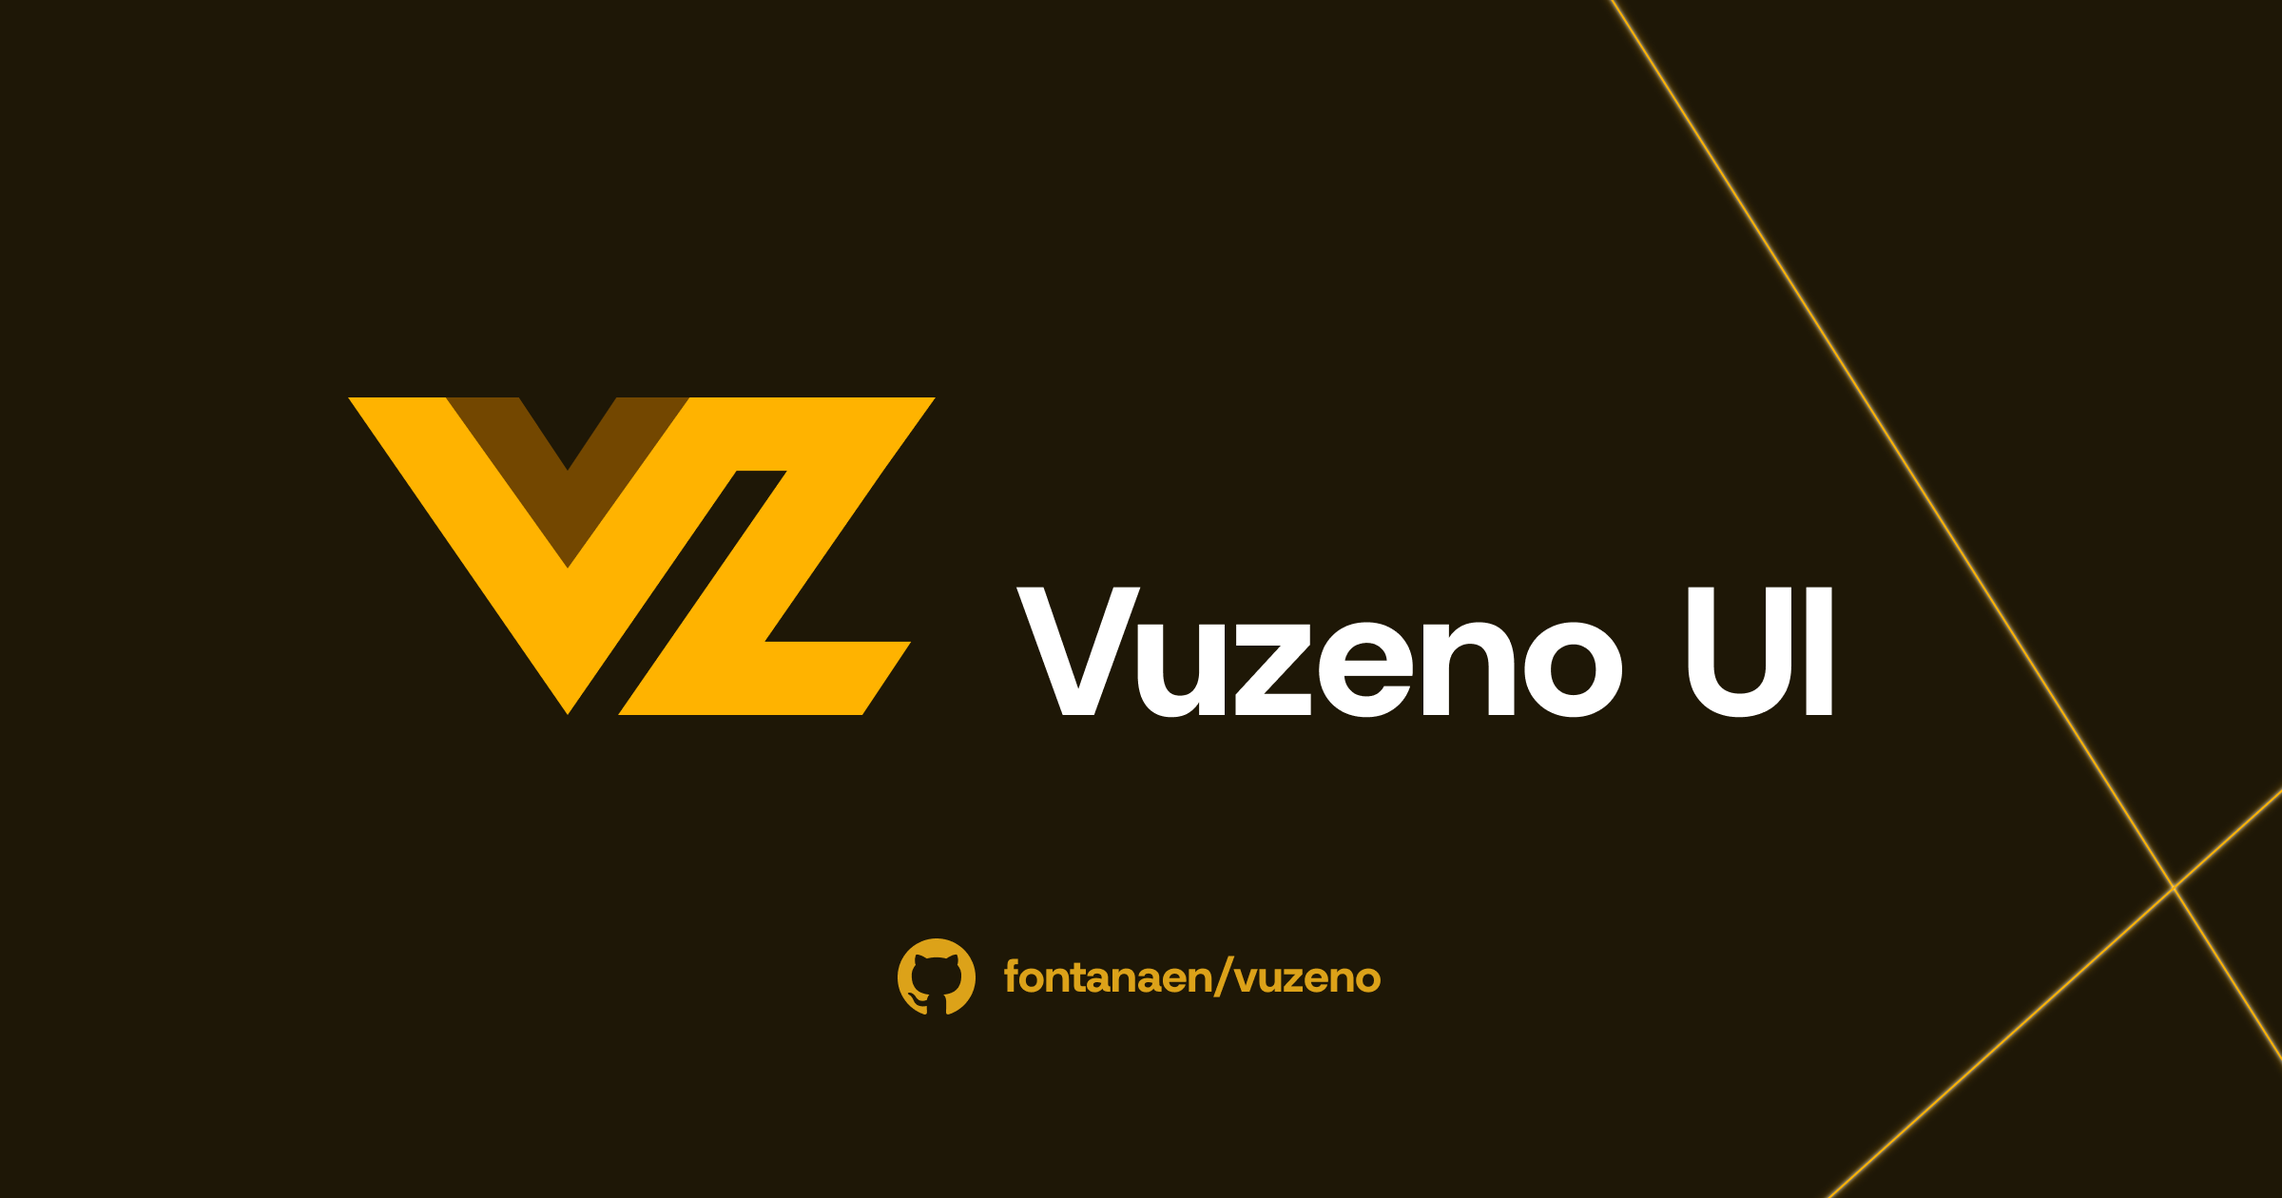
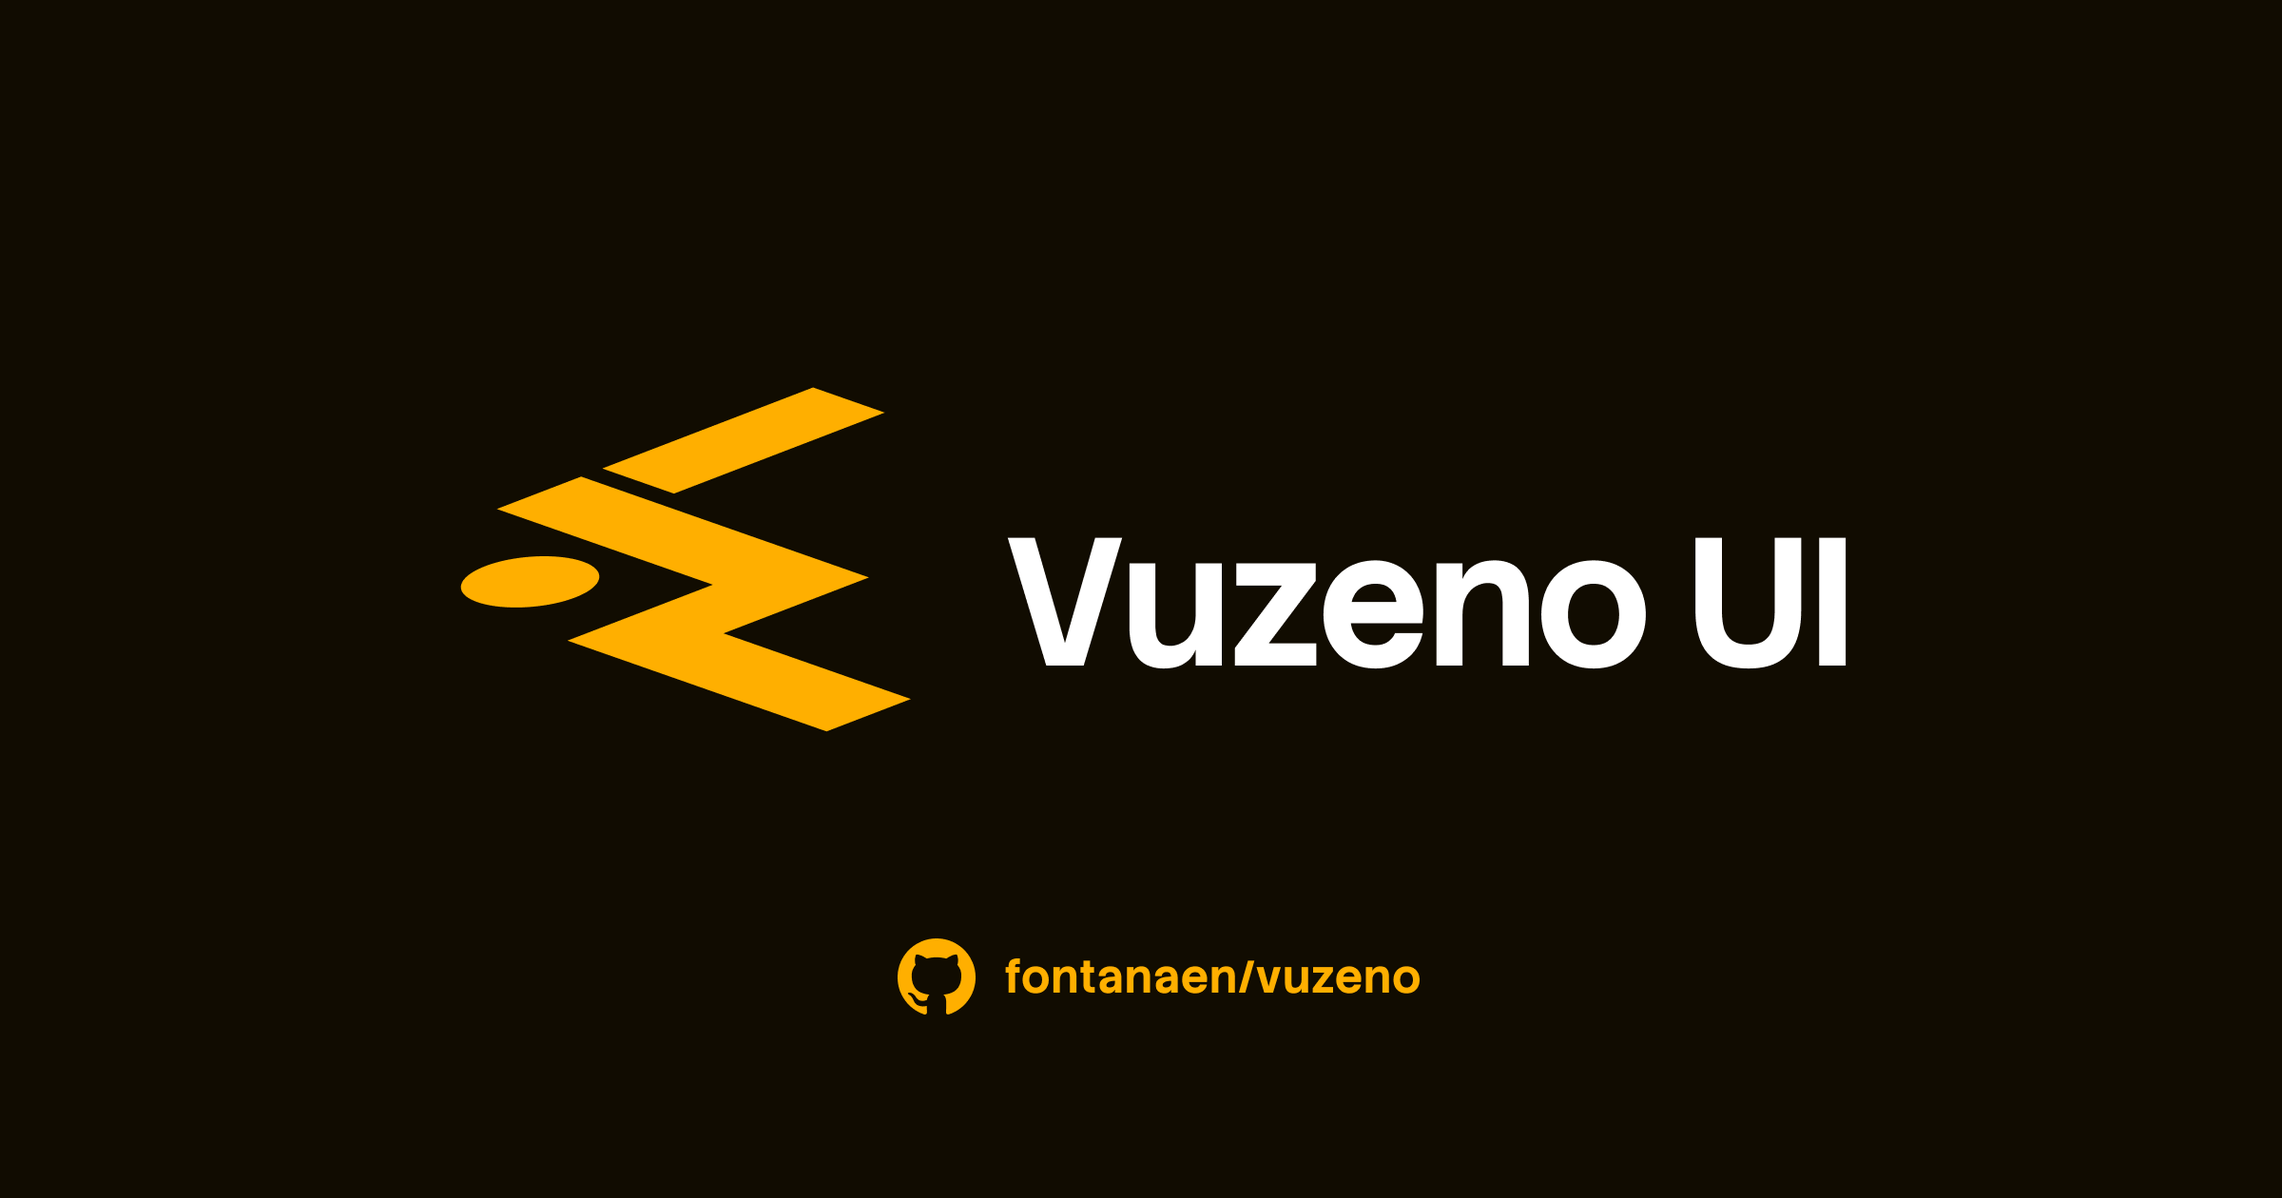
refactor(docs): new theme, new assets + clean + add github stars

diff --git a/apps/docs/app/pages/docs/[...slug].vue b/apps/docs/app/pages/docs/[...slug].vue
@@ -35,46 +35,46 @@ useSeoMeta({
         <div class="h-(--top-spacing) shrink-0" />
         <div class="mx-auto flex w-full max-w-2xl min-w-0 flex-1 flex-col gap-8 px-4 py-6 text-neutral-800 md:px-0 lg:py-8 dark:text-neutral-300">
           <div class="flex flex-col gap-2">
-            <div class="flex flex-col gap-2">
-              <div class="flex items-start justify-between">
-                <h1 class="scroll-m-20 text-4xl font-semibold tracking-tight sm:text-3xl xl:text-4xl">
+            <div class="flex items-start justify-between gap-4">
+              <div class="flex flex-col gap-2">
+                <h1 class="scroll-m-20 text-2xl font-bold tracking-tight md:text-3xl">
                   {{ page.title }}
                 </h1>
 
-                <div class="docs-nav bg-background/80 border-border/50 fixed inset-x-0 bottom-0 isolate z-50 flex items-center gap-2 border-t px-6 py-4 backdrop-blur-sm sm:static sm:z-0 sm:border-t-0 sm:bg-transparent sm:px-0 sm:pt-1.5 sm:backdrop-blur-none">
-                  <DocsCopyPage :page="page" />
-                  
-                  <Button
-                    :disabled="!neighbours?.[0]"
-                    variant="secondary"
-                    size="icon"
-                    class="extend-touch-target ml-auto size-8 shadow-none md:size-7"
-                    as-child
-                  >
-                    <NuxtLink :to="neighbours?.[0]?.path">
-                      <ArrowLeftIcon />
-                      <span class="sr-only">Previous</span>
-                    </NuxtLink>
-                  </Button>
-
-                  <Button
-                    :disabled="!neighbours?.[1]"
-                    variant="secondary"
-                    size="icon"
-                    class="extend-touch-target size-8 shadow-none md:size-7"
-                    as-child
-                  >
-                    <NuxtLink :to="neighbours?.[1]?.path">
-                      <span class="sr-only">Next</span>
-                      <ArrowRightIcon />
-                    </NuxtLink>
-                  </Button>
-                </div>
+                <p v-if="page.description" class="text-muted-foreground text-[1.05rem] text-pretty sm:text-sm font-light">
+                  {{ page.description }}
+                </p>
               </div>
 
-              <p v-if="page.description" class="text-muted-foreground text-[1.05rem] text-balance sm:text-base">
-                {{ page.description }}
-              </p>
+              <div class="docs-nav bg-background/80 border-border/50 fixed inset-x-0 bottom-0 isolate z-50 flex items-center gap-2 border-t px-6 py-4 backdrop-blur-sm sm:static sm:z-0 sm:border-t-0 sm:bg-transparent sm:px-0 sm:pt-1.5 sm:backdrop-blur-none">
+                <DocsCopyPage :page="page" />
+                
+                <Button
+                  :disabled="!neighbours?.[0]"
+                  variant="secondary"
+                  size="icon"
+                  class="extend-touch-target ml-auto size-8 shadow-none md:size-7"
+                  as-child
+                >
+                  <NuxtLink :to="neighbours?.[0]?.path">
+                    <ArrowLeftIcon />
+                    <span class="sr-only">Previous</span>
+                  </NuxtLink>
+                </Button>
+
+                <Button
+                  :disabled="!neighbours?.[1]"
+                  variant="secondary"
+                  size="icon"
+                  class="extend-touch-target size-8 shadow-none md:size-7"
+                  as-child
+                >
+                  <NuxtLink :to="neighbours?.[1]?.path">
+                    <span class="sr-only">Next</span>
+                    <ArrowRightIcon />
+                  </NuxtLink>
+                </Button>
+              </div>
             </div>
           </div>
 

diff --git a/apps/docs/app/components/layouts/AppHeader.vue b/apps/docs/app/components/layouts/AppHeader.vue
@@ -8,12 +8,20 @@ import { Separator } from "@vuzeno/ui/components/separator";
       <LayoutsMobileNav class="md:hidden" />
       <div class="hidden md:block">
         <NuxtLink to="/">
-          <svg class="w-8 h-auto" width="24" height="13" viewBox="0 0 24 13" fill="none" xmlns="http://www.w3.org/2000/svg">
+          <svg v-if="false" class="w-8 h-auto" width="24" height="13" viewBox="0 0 24 13" fill="none" xmlns="http://www.w3.org/2000/svg">
             <path fill-rule="evenodd" clip-rule="evenodd" d="M9 13L0 0H4L9 7L14 0H18L9 13Z" fill="#FFB300"/>
             <path d="M11 0L9 3L7 0H4L9 7L14 0H11Z" fill="#734700"/>
             <path fill-rule="evenodd" clip-rule="evenodd" d="M21 13L22.3333 11H15L22 1H14.2852L12.8555 3H17.9231L11 13H21Z" fill="#FFB300"/>
             <path d="M15 11H22.3333L23 10H17L21.8571 3L23.2857 1L24 0H20H15L14.2852 1H22L15 11Z" fill="#FFB300"/>
           </svg>
+          <svg class="w-8 h-auto" width="308" height="308" viewBox="0 0 308 308" fill="none" xmlns="http://www.w3.org/2000/svg">
+            <path fill-rule="evenodd" clip-rule="evenodd" d="M111.687 103.365L149.411 116.583L260.286 73.9734L222.561 60.755L111.687 103.365Z" fill="#FFAF00"/>
+            <path fill-rule="evenodd" clip-rule="evenodd" d="M56.2495 124.67L207.619 177.708L251.969 160.664L100.599 107.626L56.2495 124.67Z" fill="#FFAF00"/>
+            <path fill-rule="evenodd" clip-rule="evenodd" d="M93.391 193.891L131.115 207.109L251.969 160.664L214.244 147.446L93.391 193.891Z" fill="#FFAF00"/>
+            <path fill-rule="evenodd" clip-rule="evenodd" d="M93.391 193.891L229.671 241.642L274.021 224.598L137.741 176.847L93.391 193.891Z" fill="#FFAF00"/>
+            <path fill-rule="evenodd" clip-rule="evenodd" d="M97.3341 171.242C112.643 165.359 114.497 156.891 101.475 152.328C88.4533 147.765 65.4871 148.836 50.1785 154.719C34.8699 160.602 33.0159 169.07 46.0376 173.633C59.0593 178.196 82.0255 177.125 97.3341 171.242Z" fill="#FFAF00"/>
+          </svg>
+
         </NuxtLink>
       </div>
 

diff --git a/tools/tailwind/style.css b/tools/tailwind/style.css
@@ -40,35 +40,35 @@
 }
 
 .dark {
-  --background: oklch(0.145 0 0);
+  --background: oklch(15.673% 0.0286 91.593);
   --foreground: oklch(0.985 0 0);
   --card: oklch(0.145 0 0);
   --card-foreground: oklch(0.985 0 0);
-  --popover: oklch(0.269 0 0);
+  --popover: oklch(25.233% 0.04044 81.336);
   --popover-foreground: oklch(0.985 0 0);
   --primary: oklch(0.8176 0.1702 78.35);
-  --primary-foreground: oklch(0.205 0 0);
-  --secondary: oklch(0.269 0 0);
+  --primary-foreground: oklch(20.125% 0.03129 84.002);
+  --secondary: oklch(27.303% 0.04401 69.543);
   --secondary-foreground: oklch(0.985 0 0);
-  --muted: oklch(0.269 0 0);
-  --muted-foreground: oklch(0.708 0 0);
-  --accent: oklch(0.369 0 0);
+  --muted: oklch(37.278% 0.03912 85.041);
+  --muted-foreground: oklch(65.431% 0.01616 70.707);
+  --accent: oklch(36.933% 0.05329 88.737);
   --accent-foreground: oklch(0.985 0 0);
   --destructive: oklch(0.396 0.141 25.723);
   --destructive-foreground: oklch(0.637 0.237 25.331);
-  --border: oklch(0.269 0 0);
-  --input: oklch(0.269 0 0);
-  --ring: oklch(0.439 0 0);
+  --border: oklch(25.673% 0.02066 76.42);
+  --input: oklch(28.4% 0.02804 75.555);
+  --ring: oklch(51.055% 0.04998 73.021);
   --chart-1: oklch(0.488 0.243 264.376);
   --chart-2: oklch(0.696 0.17 162.48);
   --chart-3: oklch(0.769 0.188 70.08);
   --chart-4: oklch(0.627 0.265 303.9);
   --chart-5: oklch(0.645 0.246 16.439);
-  --sidebar: oklch(0.205 0 0);
+  --sidebar: oklch(19.969% 0.01402 71.939);
   --sidebar-foreground: oklch(0.985 0 0);
-  --sidebar-primary: oklch(0.488 0.243 264.376);
+  --sidebar-primary: oklch(0.8176 0.1702 78.35);
   --sidebar-primary-foreground: oklch(0.985 0 0);
-  --sidebar-accent: oklch(0.269 0 0);
+  --sidebar-accent: oklch(27.375% 0.03357 75.244);
   --sidebar-accent-foreground: oklch(0.985 0 0);
   --sidebar-border: oklch(0.269 0 0);
   --sidebar-ring: oklch(0.439 0 0);

diff --git a/apps/docs/app/components/docs/SearchMenu.vue b/apps/docs/app/components/docs/SearchMenu.vue
@@ -45,8 +45,8 @@ useHotkey("Mod+K", () => {
       </div>
     </DialogTrigger>
 
-    <DialogContent class="top-30 p-0 border-2 border-accent translate-y-0 data-[state=open]:slide-in-from-bottom-1/3" :show-close-button="false">
-      <Command class="bg-muted/50 p-2">
+    <DialogContent class="top-30 p-0 border-4 border-accent translate-y-0 data-[state=open]:slide-in-from-bottom-1/3" :show-close-button="false">
+      <Command class="bg-muted/30 p-2">
         <div class="border-2 border-input bg-background rounded-md h-10">
           <CommandInput placeholder="Search" class="h-9" />
         </div>
@@ -55,7 +55,7 @@ useHotkey("Mod+K", () => {
 
           <CommandGroup class="flex flex-col mt-2 mb-4">
             <Label class="text-xs font-medium mb-2 text-muted-foreground">Get Started</Label>
-            <CommandItem v-for="file in navigation?.root" :key="file.path" :value="file.path" class="text-sm font-medium" @click="open = false">
+            <CommandItem v-for="file in navigation?.root" :key="file.path" :value="file.path" class="text-sm" @click="open = false">
               <NuxtLink :to="file.path">
                 {{ file.title }}
               </NuxtLink>
@@ -64,7 +64,7 @@ useHotkey("Mod+K", () => {
 
           <CommandGroup class="flex flex-col">
             <Label class="text-xs font-medium mb-2 text-muted-foreground">Components</Label>
-            <CommandItem v-for="file in navigation?.components" :key="file.path" :value="file.path" class="text-sm font-medium" @click="open = false">
+            <CommandItem v-for="file in navigation?.components" :key="file.path" :value="file.path" class="text-sm" @click="open = false">
               <NuxtLink :to="file.path">
                 {{ file.title }}
               </NuxtLink>

diff --git a/apps/docs/app/components/home/Hero.vue b/apps/docs/app/components/home/Hero.vue
@@ -11,14 +11,15 @@ useReveal();
       <div class="flex flex-col gap-10 items-center">
         <div class="flex flex-col gap-6 w-full sm:w-3xl items-center">
           <h1
-            class="hero-title text-center font-bold text-foreground animate-in fade-in-0 blur-in-md duration-700"
+            class="hero-title tracking-tighter leading-tight text-center font-bold text-foreground animate-in fade-in-0 blur-in-md duration-700"
           >
             A Vue component registry<span class="hero-accent">.</span>
           </h1>
 
-          <p class="text-base md:text-lg text-muted-foreground max-w-2xl leading-relaxed text-pretty reveal text-center" style="--i: 2">
-            Vuzeno extends <span class="text-foreground">shadcn-vue</span> with production-ready components
-            built for Vue.
+          <p class="text-base text-muted-foreground max-w-2xl leading-relaxed text-pretty reveal text-center" style="--i: 2">
+            Vuzeno extends 
+            <a href="https://www.shadcn-vue.com/" target="_blank" class="text-foreground hover:underline hover:text-primary font-medium">shadcn-vue</a> 
+            with production-ready components built for Vue.
           </p>
 
           <div class="grid grid-cols-2 gap-4 sm:flex sm:flex-wrap sm:items-center sm:justify-center reveal" style="--i: 3">
@@ -44,8 +45,6 @@ useReveal();
 <style scoped>
 .hero-title {
   font-size: clamp(2.75rem, 3.5vw, 5rem);
-  line-height: 0.95;
-  letter-spacing: -0.04em;
 }
 
 .hero-accent {

diff --git a/apps/docs/app/assets/main.css b/apps/docs/app/assets/main.css
@@ -1,4 +1,6 @@
-@import url("https://fonts.googleapis.com/css2?family=Host+Grotesk:ital,wght@0,300..800;1,300..800&display=swap");
+/* @import url("https://fonts.googleapis.com/css2?family=Host+Grotesk:ital,wght@0,300..800;1,300..800&family=Outfit:wght@100..900&display=swap"); */
+/* @import url("https://fonts.googleapis.com/css2?family=Outfit:wght@100..900&display=swap"); */
+@import url("https://fonts.googleapis.com/css2?family=Stack+Sans+Text:wght@200..700&display=swap");
 
 @import "tailwindcss";
 @import "tw-animate-css";
@@ -9,7 +11,7 @@
 @source "../../../../packages/registry";
 
 body {
-  font-family: "Host Grotesk", sans-serif;
+  font-family: "Stack Sans Text", sans-serif;
 }
 
 @theme {
@@ -67,7 +69,7 @@ body {
   --code-foreground: var(--surface-foreground);
   --code-highlight: oklch(0.27 0 0);
   --code-number: oklch(0.56 0 0);
-  --selection: oklch(0.145 0 0);
+  --selection: oklch(50.329% 0.20654 29.223);
   --selection-foreground: oklch(1 0 0);
 }
 
@@ -76,7 +78,7 @@ body {
   --surface-foreground: oklch(0.708 0 0);
   --code: var(--surface);
   --code-foreground: var(--surface-foreground);
-  --code-highlight: oklch(0.27 0 0);
+  --code-highlight: oklch(39.102% 0.05772 86.149);
   --code-number: oklch(0.72 0 0);
   --selection: oklch(0.922 0 0);
   --selection-foreground: oklch(0.205 0 0);

diff --git a/apps/docs/app/components/docs/Sidebar.vue b/apps/docs/app/components/docs/Sidebar.vue
@@ -31,10 +31,10 @@ const { path } = toRefs(useRoute());
                 <SidebarMenuButton
                   as-child
                   :is-active="childItem?.path === path"
-                  class="data-[active=true]:bg-accent data-[active=true]:border-accent 3xl:fixed:w-full 3xl:fixed:max-w-48 relative h-[30px] w-fit overflow-visible border border-transparent text-[0.8rem] font-medium after:absolute after:inset-x-0 after:-inset-y-1 after:z-0 after:rounded-md"
+                  class="data-[active=true]:bg-accent data-[active=true]:border-accent xl:w-full xl:max-w-48 relative h-[30px] w-fit overflow-visible border border-transparent text-[0.8rem] font-medium after:absolute after:inset-x-0 after:-inset-y-1 after:z-0 after:rounded-md"
                 >
                   <a v-if="childItem?.type === 'asset'" :href="childItem?.path" target="_blank">{{ childItem.title }}</a>
-                  <NuxtLink v-else :to="childItem?.path">
+                  <NuxtLink v-else :to="childItem?.path" class="justify-between">
                     <span class="absolute inset-0 flex w-(--sidebar-width) bg-transparent" />
                     {{ childItem.title }}
                     <span

diff --git a/apps/docs/app/components/links/GithubLink.vue b/apps/docs/app/components/links/GithubLink.vue
@@ -2,10 +2,33 @@
 import { Button } from "@vuzeno/ui/components/button";
 import { GitHubIcon } from "vue3-simple-icons";
 import { siteConfig } from "~/lib/site-config";
+
+const { data: repository } = await useFetch("/api/github/repository", {
+  key: "github-repository",
+});
+
+const starCount = computed(() => {
+  if (!repository.value) {
+    return null;
+  }
+
+  return new Intl.NumberFormat("en", {
+    notation: "compact",
+    maximumFractionDigits: 1,
+  }).format(repository.value.stargazersCount);
+});
 </script>
 
 <template>
-  <Button as="a" :href="siteConfig.links.github" variant="ghost" size="icon-sm" class="size-8">
+  <Button
+    as="a"
+    :href="siteConfig.links.github"
+    variant="ghost"
+    size="sm"
+    class="h-8 gap-1.5 px-2"
+    :aria-label="starCount ? `GitHub repository with ${starCount} stars` : 'GitHub repository'"
+  >
     <GitHubIcon />
+    <span v-if="starCount" class="text-xs tabular-nums">{{ starCount }}</span>
   </Button>
 </template>

diff --git a/apps/docs/app/components/content/Alert.vue b/apps/docs/app/components/content/Alert.vue
@@ -9,9 +9,9 @@ const props = defineProps<{
 }>();
 
 const variantsClass = {
-  info: "bg-blue-500/10 border-blue-500/50 [&>svg]:text-blue-500",
-  warning: "bg-amber-500/10 border-amber-500 [&>svg]:text-amber-500",
-  destructive: "bg-red-500/10 border-destructive [&>svg]:text-destructive",
+  info: "bg-blue-500/20 border-2 border-blue-500/50 [&>svg]:text-blue-500",
+  warning: "bg-amber-500/20 border-2 border-amber-500/50 [&>svg]:text-amber-500",
+  destructive: "bg-red-500/20 border-2 border-red-500/50 [&>svg]:text-red-500",
 };
 
 const icon = computed(() => {
@@ -26,7 +26,7 @@ const icon = computed(() => {
 <template>
   <Alert :class="variantsClass[variant]">
     <component :is="icon" class="size-4" />
-    <AlertTitle>
+    <AlertTitle class="font-normal">
         {{ title }}
     </AlertTitle>
     <AlertDescription v-if="description" class="text-muted-foreground">

diff --git a/apps/docs/server/api/github/repository.get.ts b/apps/docs/server/api/github/repository.get.ts
@@ -1,0 +1,30 @@
+import { siteConfig } from "../../../app/lib/site-config";
+
+type GitHubRepositoryResponse = {
+  stargazers_count: number;
+};
+
+function getRepositoryPath() {
+  const url = new URL(siteConfig.links.github);
+
+  return url.pathname.replace(/^\/|\/$/g, "");
+}
+
+export default defineCachedEventHandler(
+  async () => {
+    const repositoryPath = getRepositoryPath();
+    const repository = await $fetch<GitHubRepositoryResponse>(`https://api.github.com/repos/${repositoryPath}`, {
+      headers: {
+        Accept: "application/vnd.github+json",
+        "User-Agent": "vuzeno-docs",
+      },
+    });
+
+    return {
+      stargazersCount: repository.stargazers_count,
+    };
+  },
+  {
+    maxAge: 60 * 60,
+  },
+);

diff --git a/apps/docs/app/components/home/HeroTerminal.vue b/apps/docs/app/components/home/HeroTerminal.vue
@@ -163,7 +163,7 @@ onBeforeUnmount(() => {
       <div v-if="showAddedFiles" class="hero-terminal-files mt-5 text-[#a3a3a3]">
         <p class="mb-2 text-[#ededed]">4 files added</p>
 
-        <div class="space-y-1">
+        <div class="space-y-0">
           <div
             v-for="file in addedFiles"
             :key="file"

diff --git a/apps/docs/app/components/content/ProseA.vue b/apps/docs/app/components/content/ProseA.vue
@@ -14,7 +14,7 @@ const props = withDefaults(
   <NuxtLink
     :href="props.href"
     :target="props.target"
-    class="font-medium underline underline-offset-4"
+    class="font-medium underline underline-offset-4 hover:text-primary"
   >
     <slot />
   </NuxtLink>
